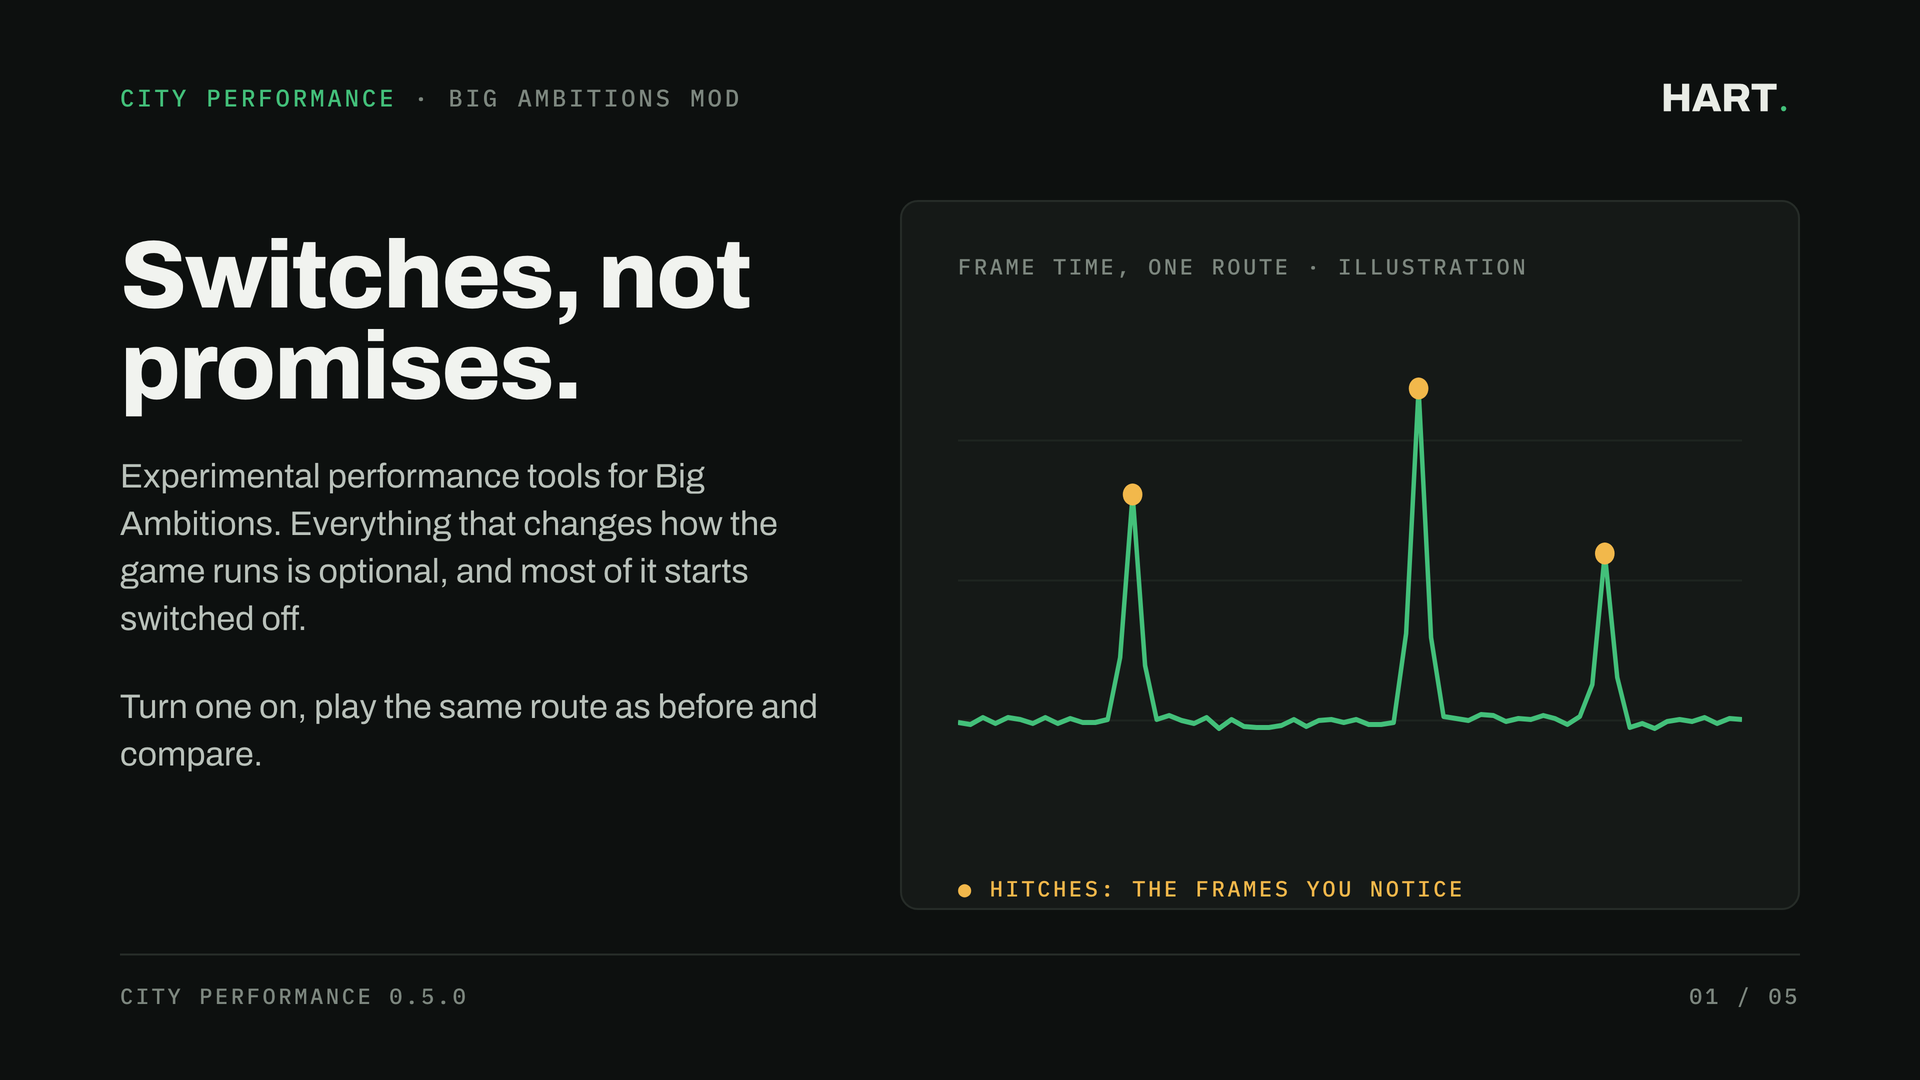
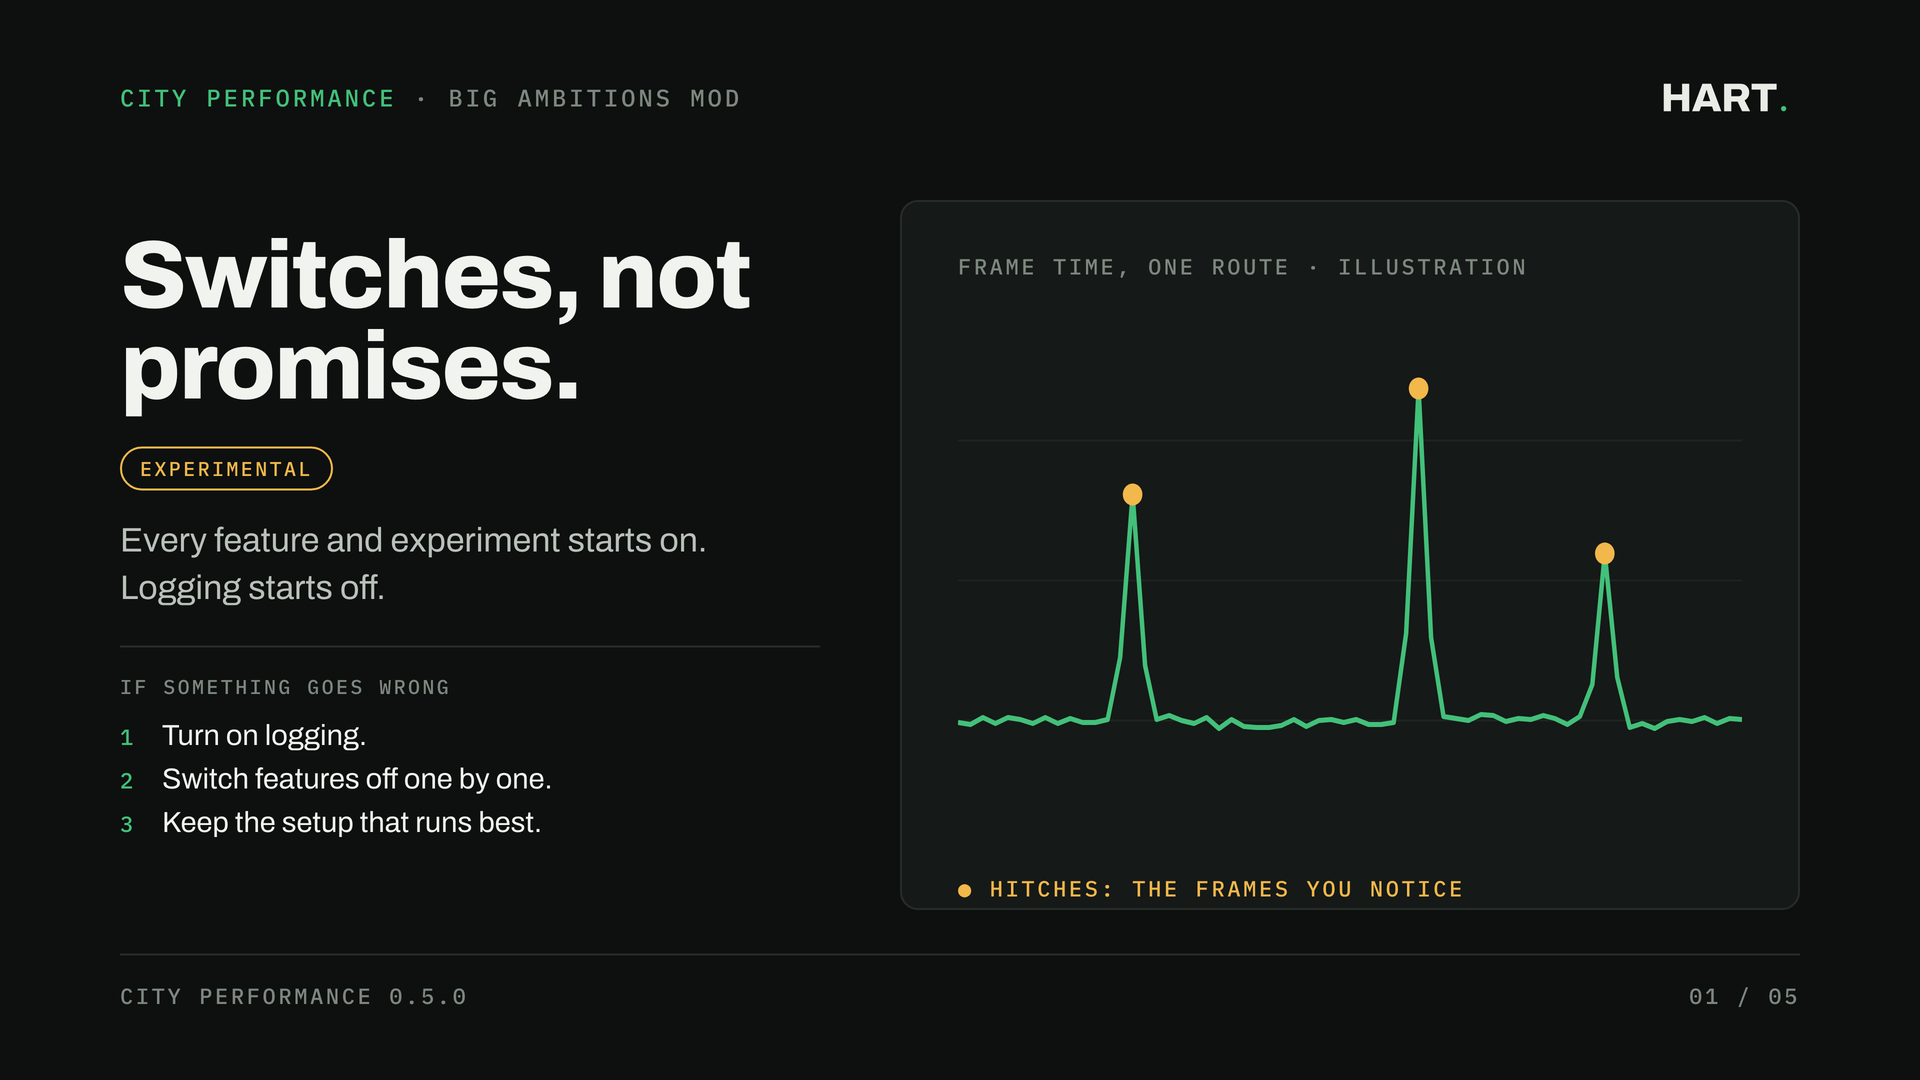
Redraw cards 01-03 for the all-on 0.5.0 defaults
Every feature and experiment starts on and logging starts off. Card 01
marks the mod experimental and lists the troubleshooting steps, card 02
shows the five experiments on, and card 03 shows all four logging
switches off.

Changed region(s): [[0.0625, 0.4278, 0.4062, 0.5806], [0.0625, 0.6111, 0.4375, 0.7944]]

diff --git a/workshop/art/cards/03-measure.html b/workshop/art/cards/03-measure.html
@@ -1,11 +1,25 @@
 <!doctype html><html lang="en"><head><meta charset="utf-8"><link rel="stylesheet" href="../hart.css"><link rel="stylesheet" href="../theme.css"></head><body><div class="card"><div class="top"><div class="kicker mono"><b>City Performance</b> &middot; Big Ambitions mod</div><img class="mark" src="../src/hart-wordmark.svg" alt="HART."></div>
+<style>
+.lg { padding: 24px 38px; }
+.lg .hd { display: flex; justify-content: space-between; align-items: center; }
+.lg .hd .mono { font-size: 21px; color: var(--accent); }
+.sw { display: inline-flex; align-items: center; gap: 14px; font-family: Plex, monospace; font-size: 19px; letter-spacing: 0.12em; color: var(--dim); }
+.sw i { width: 58px; height: 30px; border-radius: 999px; border: 2px solid var(--dim); position: relative; display: inline-block; }
+.sw i::after { content: ""; position: absolute; left: 4px; top: 4px; width: 18px; height: 18px; border-radius: 50%; background: var(--dim); }
+.lg .t { font-size: 27px; line-height: 1.3; margin-top: 8px; }
+.lg .f { font-family: Plex, monospace; font-size: 19px; color: var(--dim); margin-top: 8px; }
+</style>
 <div class="copy"><h1>Measure your own city.</h1>
-<p class="lede">The mod never promises a frame-rate gain. It gives you the measurements to find out on your own save.</p></div>
-<div class="stage" style="display:flex; flex-direction:column; gap:36px">
-<div class="panel"><div class="mono accent" style="font-size:22px">Performance summaries &middot; off</div>
-<div style="font-size:34px; margin-top:16px; line-height:1.35">A frame-time summary in Player.log every 30&nbsp;seconds.</div></div>
-<div class="panel"><div class="mono accent" style="font-size:22px">Trace recording and export &middot; off</div>
-<div style="font-size:34px; margin-top:16px; line-height:1.35">Records recent frames and the worst hitches and saves them as CSV files.</div>
-<div class="mono dim" style="font-size:20px; margin-top:22px; letter-spacing:0.04em; text-transform:none">CityPerformanceTraces/, next to Player.log</div></div>
+<p class="lede">The mod never promises a frame-rate gain. Logging starts off. Turn it on to track down a problem or measure your own save.</p></div>
+<div class="stage" style="display:flex; flex-direction:column; gap:18px; justify-content:center">
+<div class="panel lg"><div class="hd"><span class="mono">Performance summaries</span><span class="sw">OFF<i></i></span></div>
+<div class="t">A frame-time summary in Player.log every 30&nbsp;seconds.</div></div>
+<div class="panel lg"><div class="hd"><span class="mono">Per-frame hitch trace</span><span class="sw">OFF<i></i></span></div>
+<div class="t">Keeps the latest 8,192 frames and the worst hitches for CSV export.</div>
+<div class="f">CityPerformanceTraces/, next to Player.log</div></div>
+<div class="panel lg"><div class="hd"><span class="mono">Automatically save trace</span><span class="sw">OFF<i></i></span></div>
+<div class="t">Writes the trace when you leave the city or quit.</div></div>
+<div class="panel lg"><div class="hd"><span class="mono">Extra diagnostics</span><span class="sw">OFF<i></i></span></div>
+<div class="t">Times hourly systems and other mods' callbacks. Needs the trace.</div></div>
 </div>
 <div class="foot mono"><span>City Performance 0.5.0</span><span>03 / 05</span></div></div></body></html>

diff --git a/workshop/art/cards/01-switches.html b/workshop/art/cards/01-switches.html
@@ -1,7 +1,17 @@
 <!doctype html><html lang="en"><head><meta charset="utf-8"><link rel="stylesheet" href="../hart.css"><link rel="stylesheet" href="../theme.css"></head><body><div class="card"><div class="top"><div class="kicker mono"><b>City Performance</b> &middot; Big Ambitions mod</div><img class="mark" src="../src/hart-wordmark.svg" alt="HART."></div>
+<style>
+.exp { display: inline-block; margin-top: 34px; font-size: 20px; color: var(--warn); border: 2px solid var(--warn); border-radius: 999px; padding: 7px 18px; }
+.copy .lede { margin-top: 26px; }
+.steps { margin-top: 34px; border-top: 2px solid var(--rule); padding-top: 26px; }
+.steps .mono { font-size: 20px; color: var(--dim); }
+.steps ol { list-style: none; margin-top: 14px; counter-reset: s; }
+.steps li { counter-increment: s; display: flex; gap: 20px; align-items: baseline; font-size: 29px; line-height: 1.5; color: var(--ink); }
+.steps li::before { content: counter(s); font-family: Plex, monospace; font-size: 22px; color: var(--accent); width: 22px; }
+</style>
 <div class="copy"><h1>Switches, not promises.</h1>
-<p class="lede">Experimental performance tools for Big Ambitions. All features and experiments start enabled. Logging starts disabled.</p>
-<p class="lede">If problems occur, enable logging and disable features one by one to find your best setup.</p></div>
+<div class="exp mono">Experimental</div>
+<p class="lede">Every feature and experiment starts on. Logging starts off.</p>
+<div class="steps"><div class="mono">If something goes wrong</div><ol><li>Turn on logging.</li><li>Switch features off one by one.</li><li>Keep the setup that runs best.</li></ol></div></div>
 <div class="stage panel" style="padding:50px 56px">
 <div class="mono" style="font-size:22px; color:var(--dim)">Frame time, one route &middot; illustration</div>
 <svg viewBox="0 0 880 560" style="width:100%; height:560px; margin-top:20px" preserveAspectRatio="none">

diff --git a/workshop/art/cards/02-experiments.html b/workshop/art/cards/02-experiments.html
@@ -1,6 +1,6 @@
 <!doctype html><html lang="en"><head><meta charset="utf-8"><link rel="stylesheet" href="../hart.css"><link rel="stylesheet" href="../theme.css"></head><body><div class="card"><div class="top"><div class="kicker mono"><b>City Performance</b> &middot; Big Ambitions mod</div><img class="mark" src="../src/hart-wordmark.svg" alt="HART."></div>
 <div class="copy"><h1>Five experiments you control.</h1>
-<p class="lede">Each one sits under Settings&nbsp;&gt; Mods&nbsp;&gt; City Performance and starts on. If problems occur, enable logging and disable features one by one.</p></div>
+<p class="lede">Highlights from Settings&nbsp;&gt; Mods&nbsp;&gt; City Performance. All start on. Game-build and conflict checks still decide which ones run.</p></div>
 <div class="stage panel"><div class="rows">
 <div class="row"><span class="k mono">On</span><span class="t">Smooth pedestrian refills<small>Spreads a pedestrian refill over a few frames.</small></span></div>
 <div class="row"><span class="k mono">On</span><span class="t">Share stationary-zone spawn budget<small>Fewer street performers and standing characters appear in one frame.</small></span></div>
